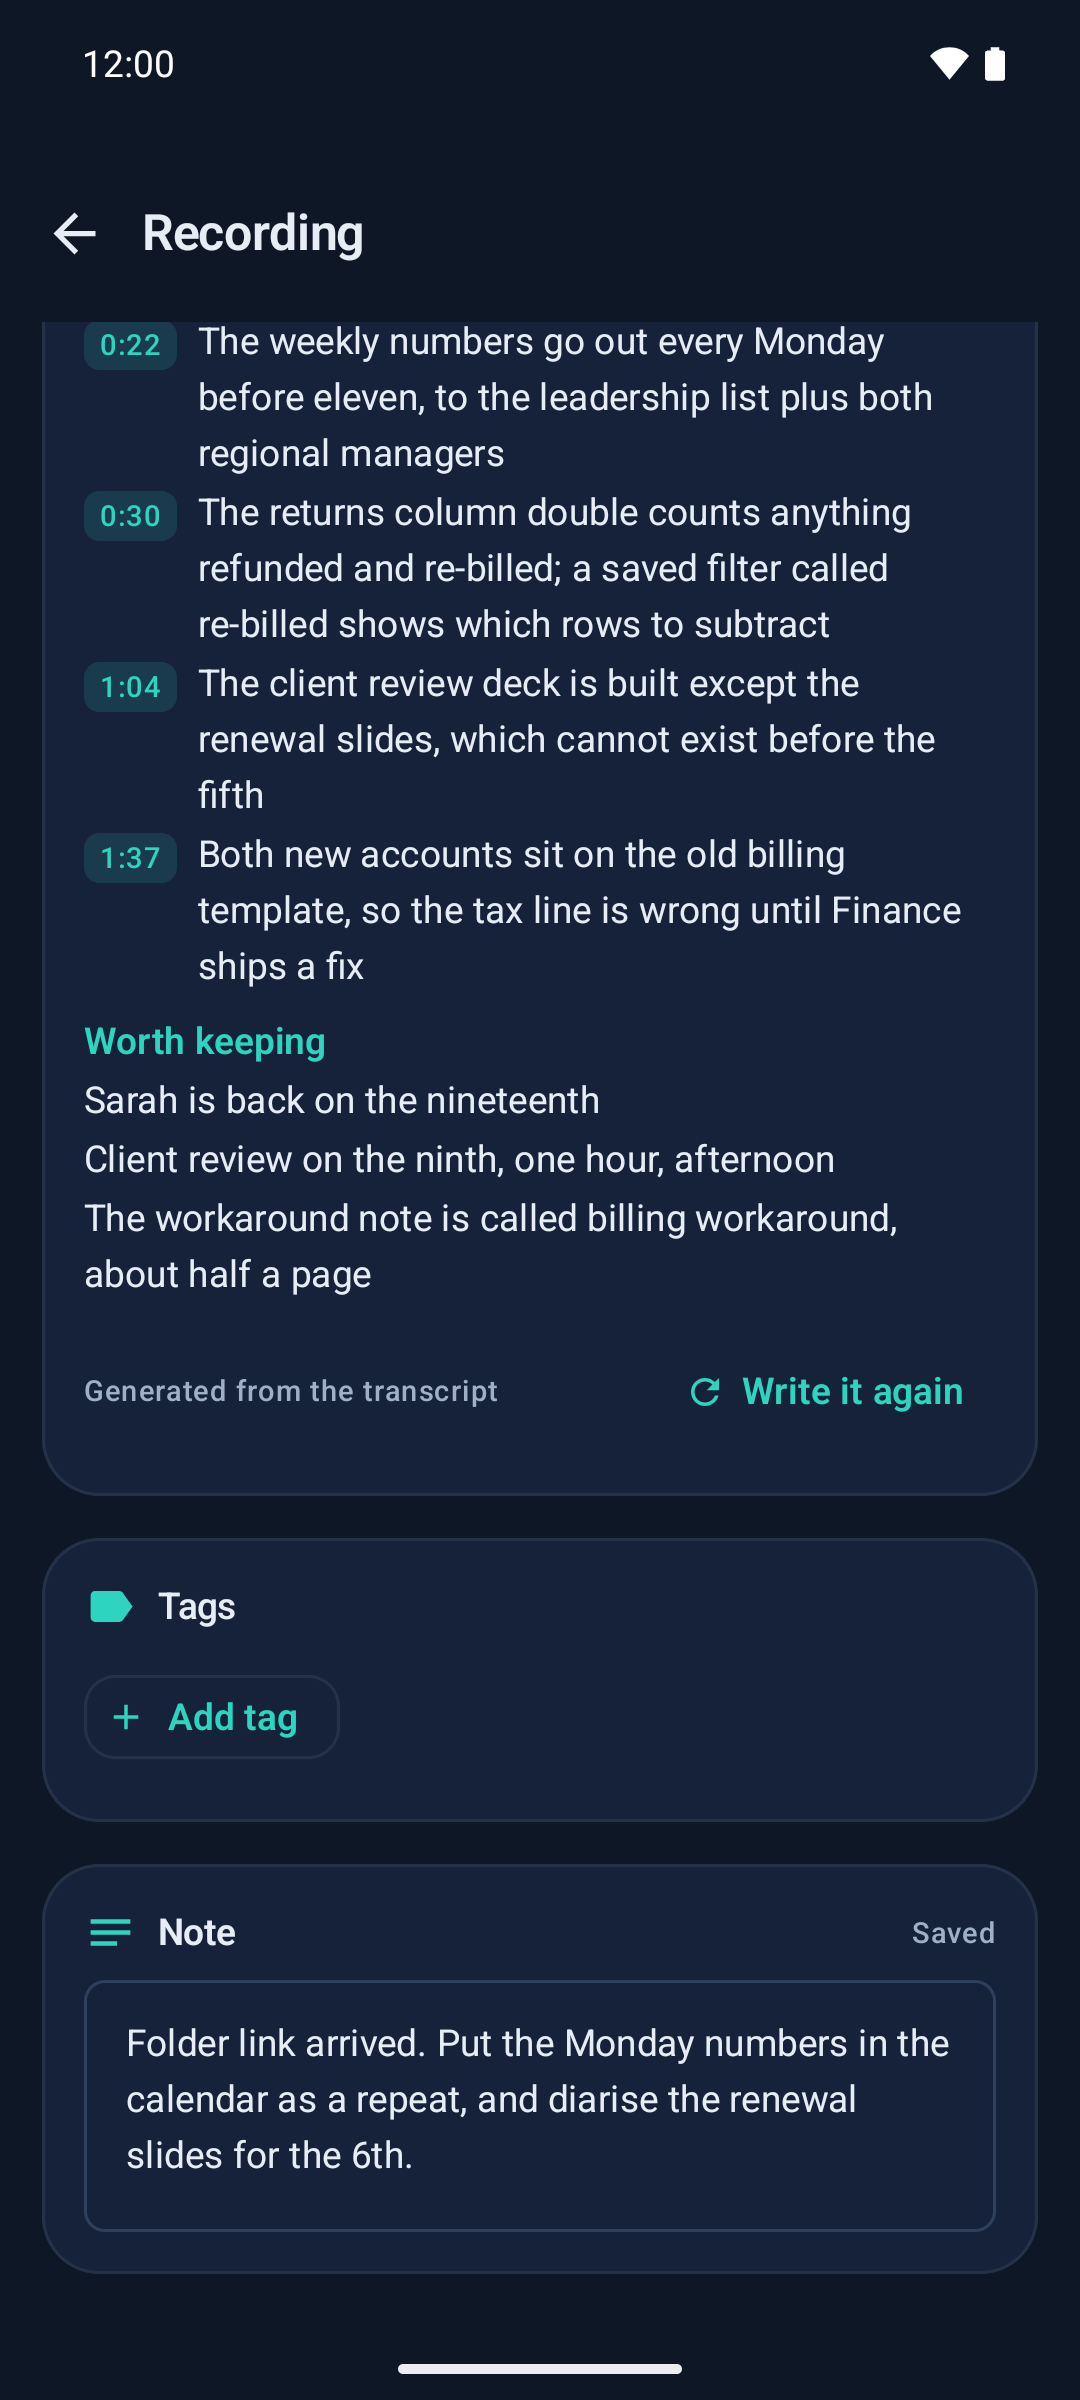
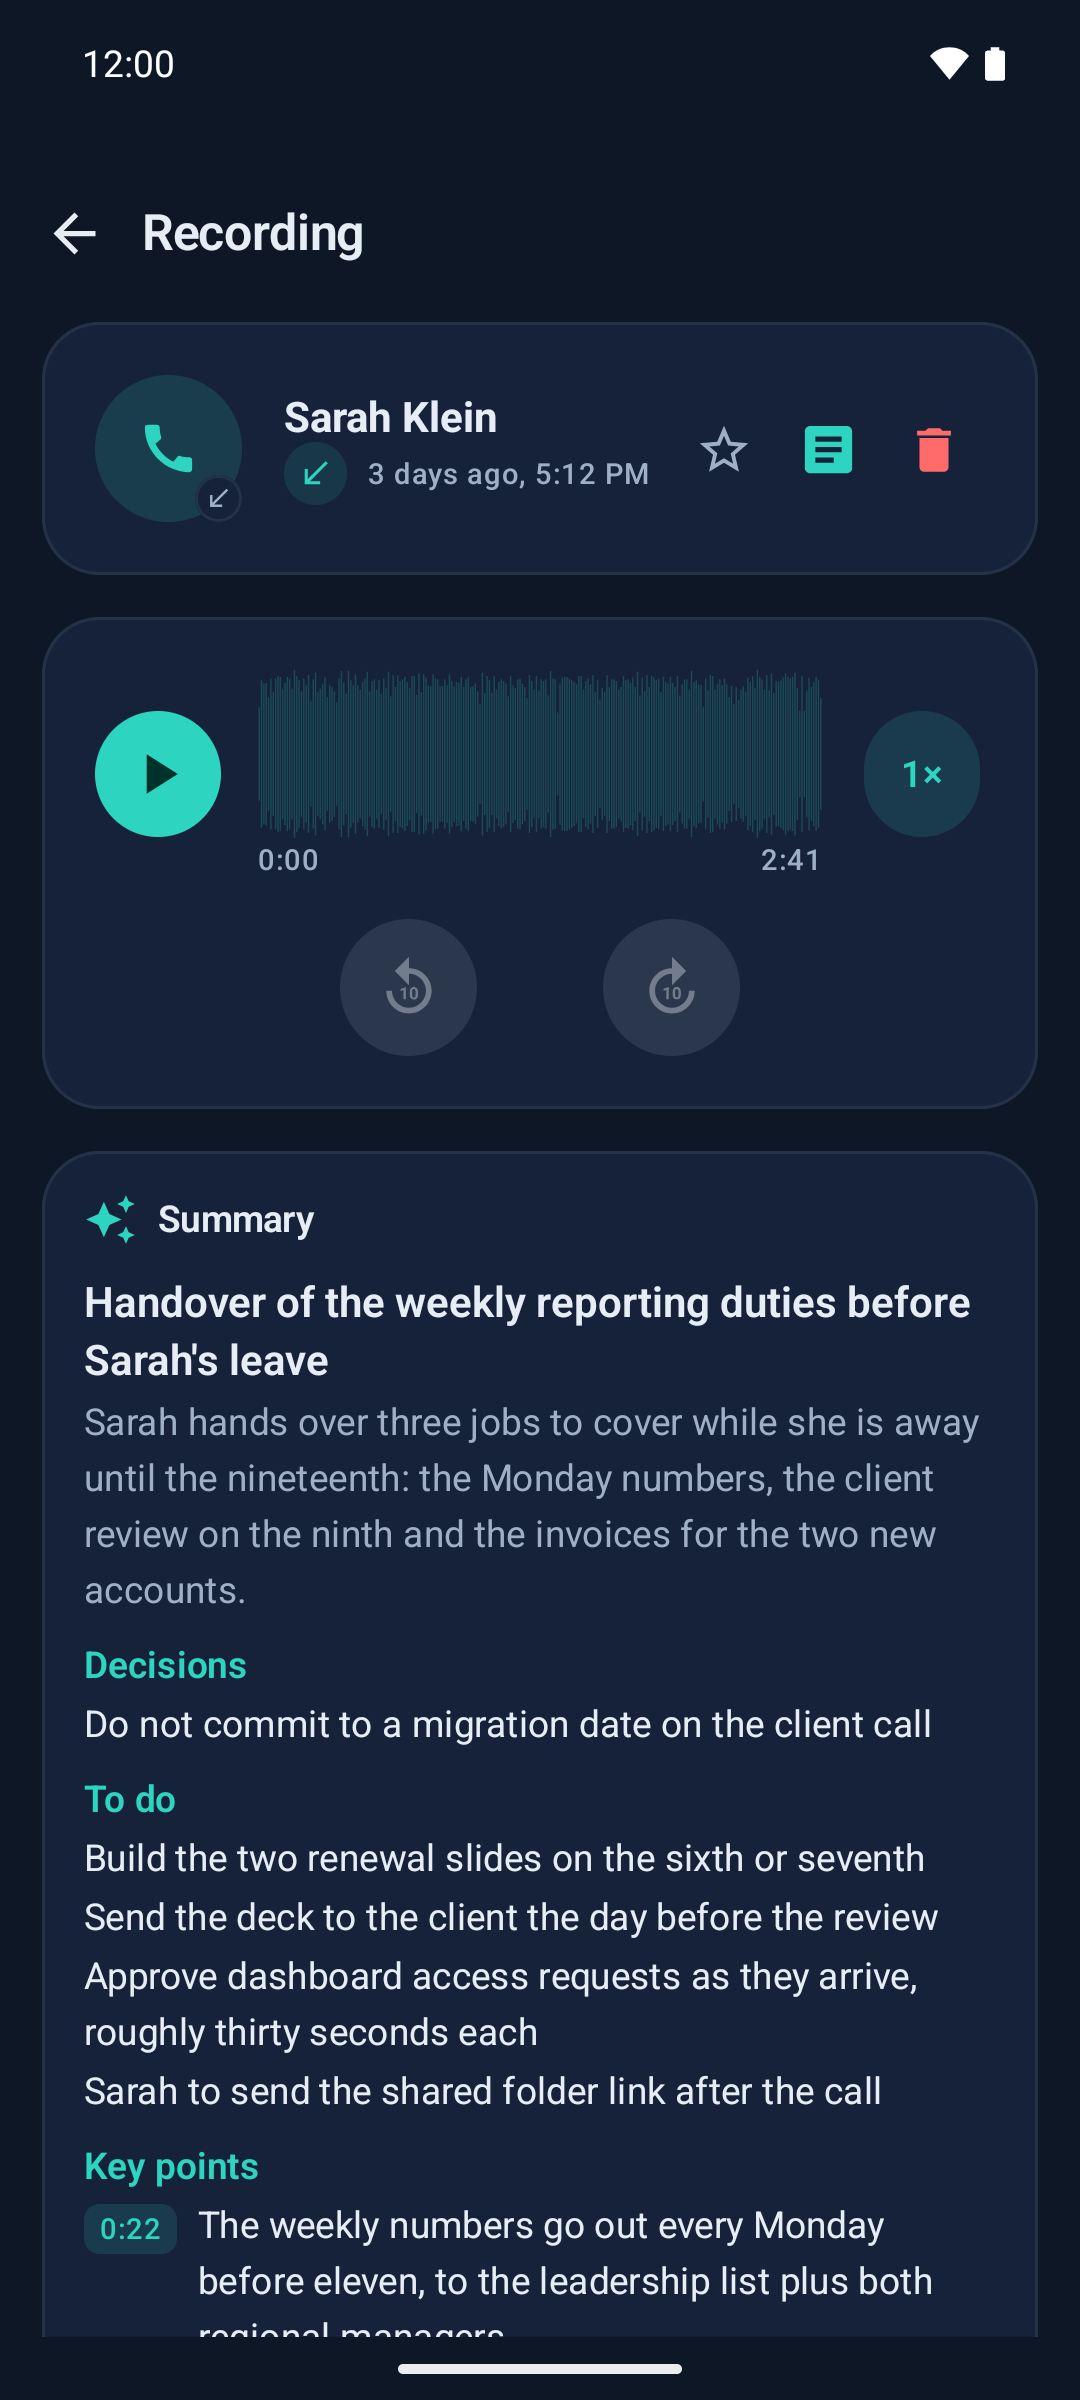
docs(screenshots): show the player in the playback shot and the real duration in the transcript shot
Also point the README's 'Keep Wireless debugging on for recording' path at
the new layout (Recordings settings > Connection), keeping the classic path
in brackets.

Changed region(s): [[0.0611, 0.125, 0.9167, 0.9688]]

diff --git a/README.md b/README.md
@@ -174,7 +174,7 @@ Both live in *Developer options*, and they do different jobs. You don't need bot
 > [!WARNING]
 > **Turning USB debugging off stops the recorder**, even with Wireless debugging on — Android restarts its debugging service when the USB setting changes. On Wi-Fi, CallVault starts it again within a few seconds. Away from Wi-Fi it can't, and the notification says so.
 
-**If you switch Wireless debugging off yourself**, CallVault leaves it off. The notification says recording is paused and has a button to turn it back on. If you'd rather CallVault switch it back on for you, turn on *Keep Wireless debugging on for recording* in *Settings ▸ Experimental* (you're also asked during setup).
+**If you switch Wireless debugging off yourself**, CallVault leaves it off. The notification says recording is paused and has a button to turn it back on. If you'd rather CallVault switch it back on for you, turn on *Keep Wireless debugging on for recording* in the Recordings page's settings, under **Connection** (classic layout: *Settings ▸ General ▸ Experimental*; you're also asked during setup).
 
 **In Shizuku mode**, Shizuku runs inside the same debugging service, so anything that restarts it stops Shizuku: turning USB debugging off, or arming recording away from Wi-Fi in built-in mode. Start Shizuku again from its app — CallVault tells you when that's needed and reconnects on its own once Shizuku is back. Shizuku started *after* USB debugging is already off keeps running.
 

diff --git a/docs/dev-notes/readme-impact-log.md b/docs/dev-notes/readme-impact-log.md
@@ -553,5 +553,10 @@ To settle it: open the README on the branch and check the two-row table reads we
 - **README table** is now 4 + 3 at width 190: Main screen / Recordings / Playback & summary / Transcript,
   then Search / Transcripts settings / Recordings settings.
 - **Deleted** the unreferenced `home.png`, `settings.png`, `wizard.png`, `02-playback.png`.
-- **Stale, not fixed here:** README line ~177 says *Keep Wireless debugging on for recording* is in
-  *Settings ▸ Experimental*; in the new layout it is under *Recordings settings ▸ Connection*.
+- **README line ~177** said *Keep Wireless debugging on for recording* is in *Settings ▸ Experimental*.
+  Now: "in the Recordings page's settings, under **Connection** (classic layout: *Settings ▸ General ▸
+  Experimental*; …)". Checked on the emulator that the toggle sits in that Connection group. Grepped the
+  README for other "Experimental" paths: none (line 30's "experimental" describes app calls, not a path).
+- **Retaken the same day:** `02b` now opens at the top (header, player with waveform, start of the
+  summary; the note is below the fold, since no scroll fits player + whole summary + note), and `03` shows
+  the real duration "0:00 / 2:41" (play tapped and paused at the start, so the first line is highlighted).
